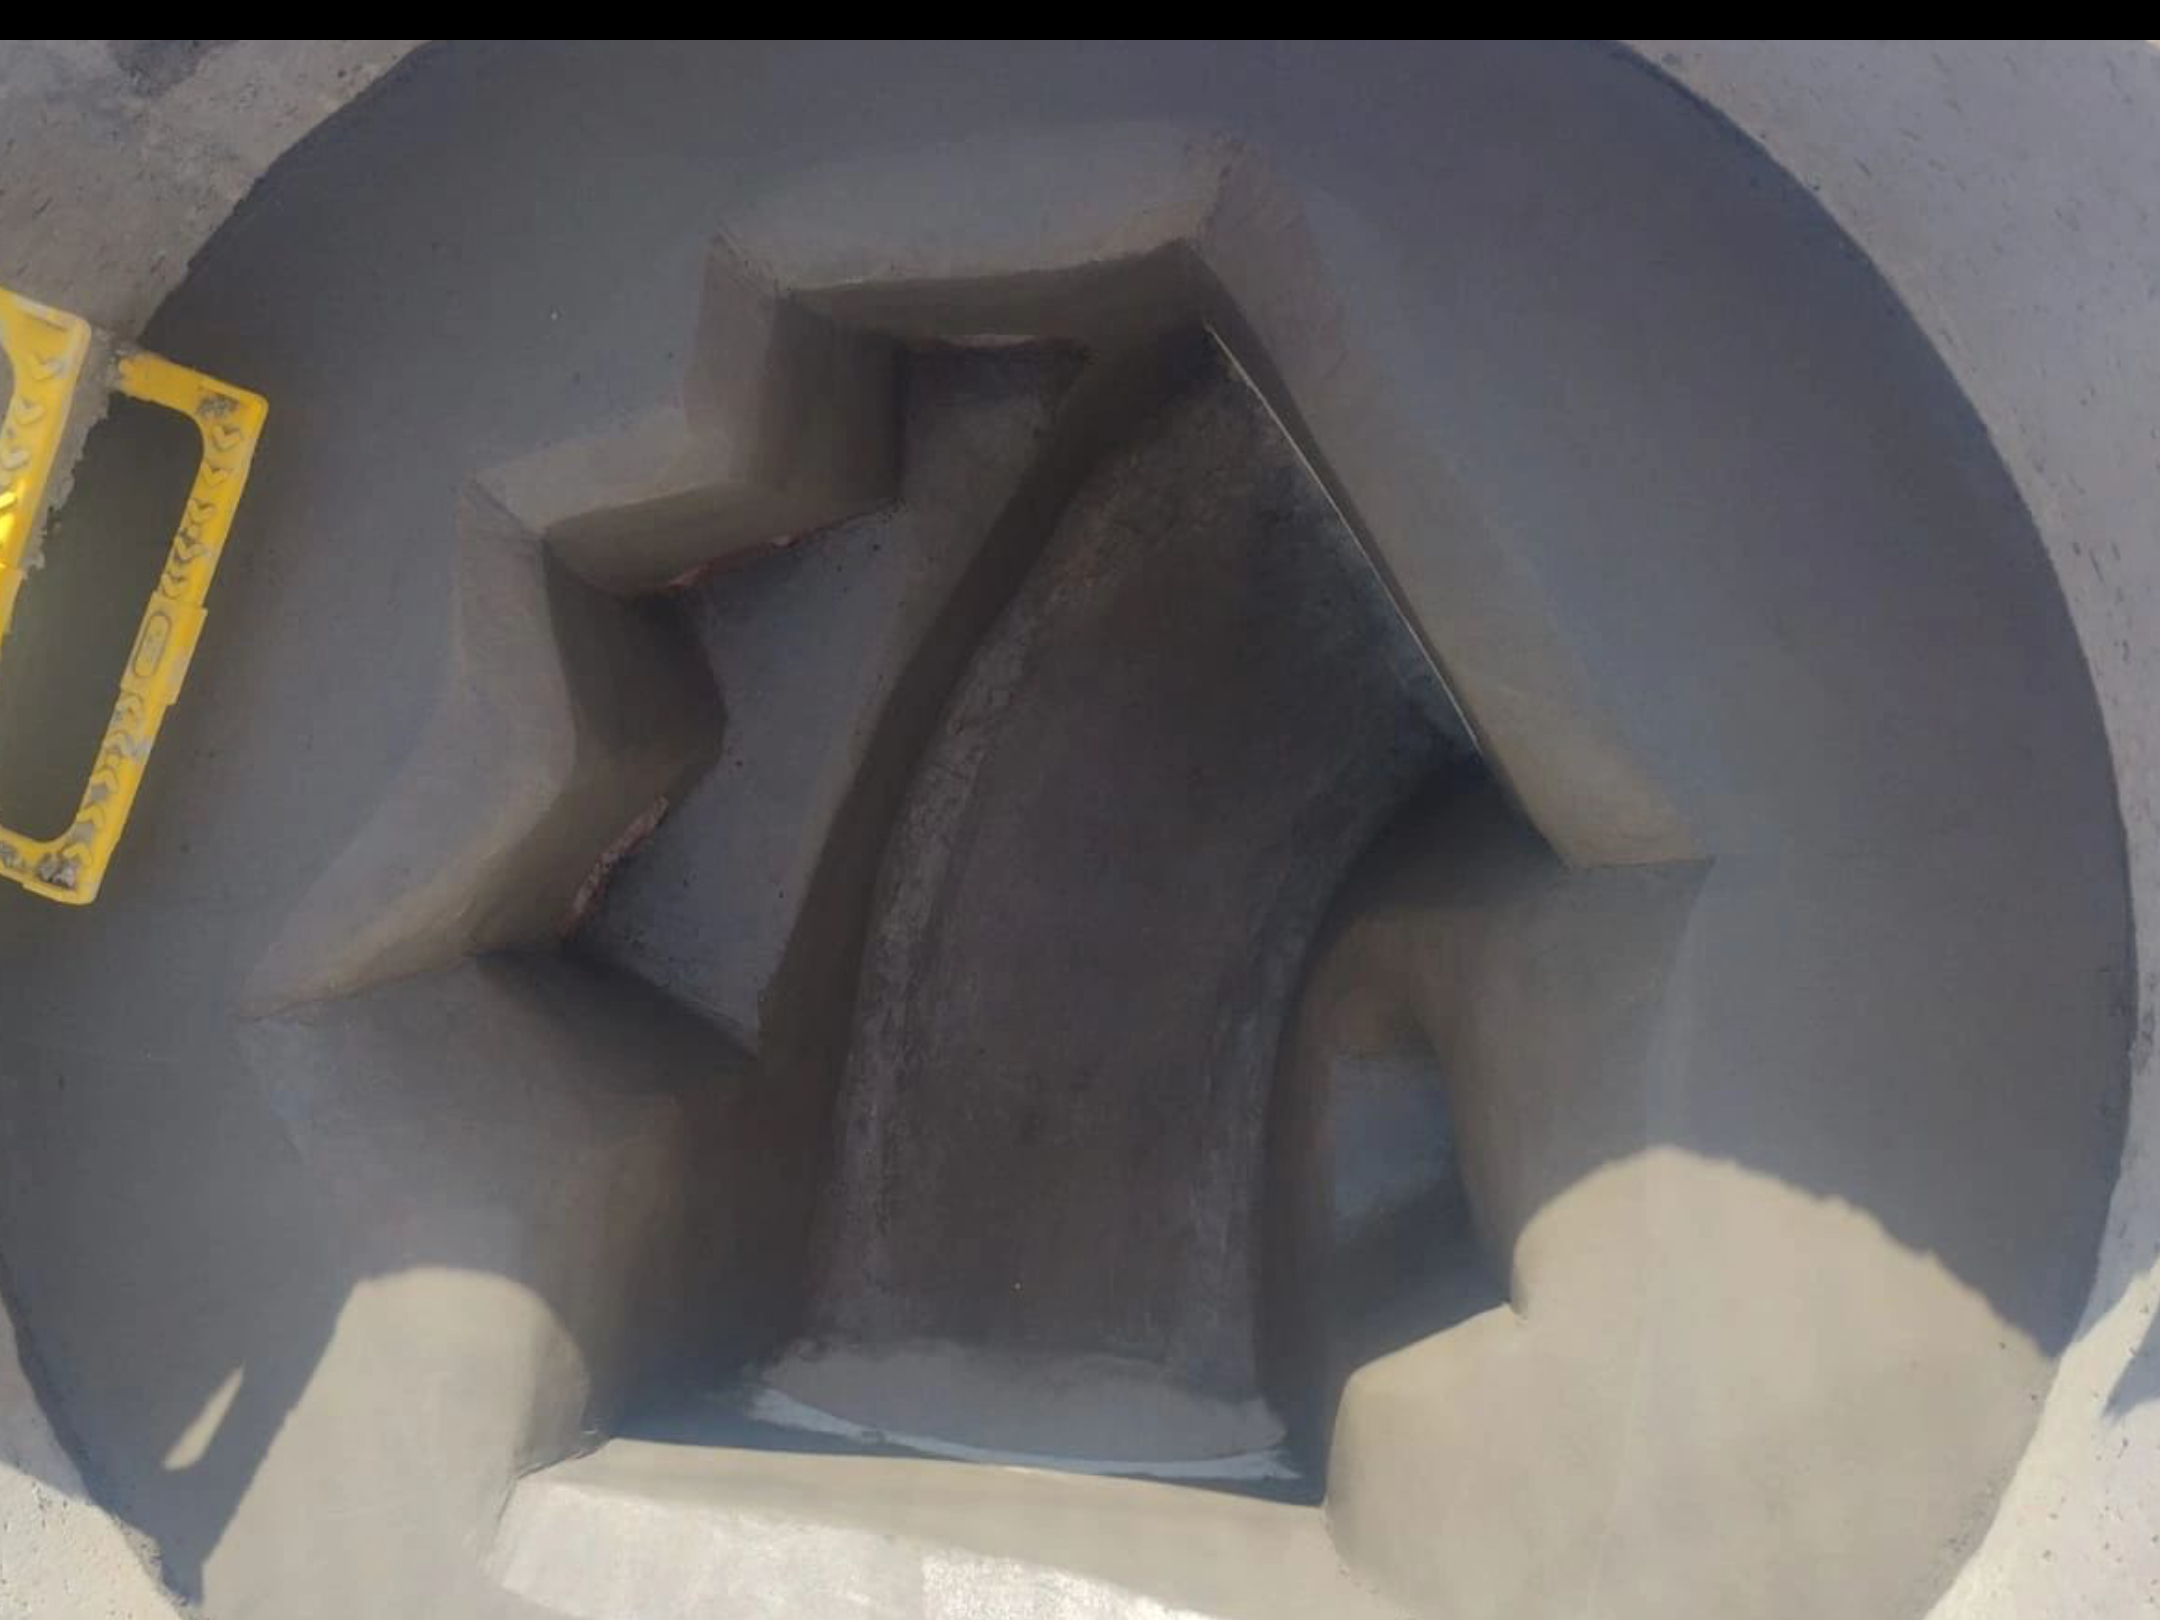
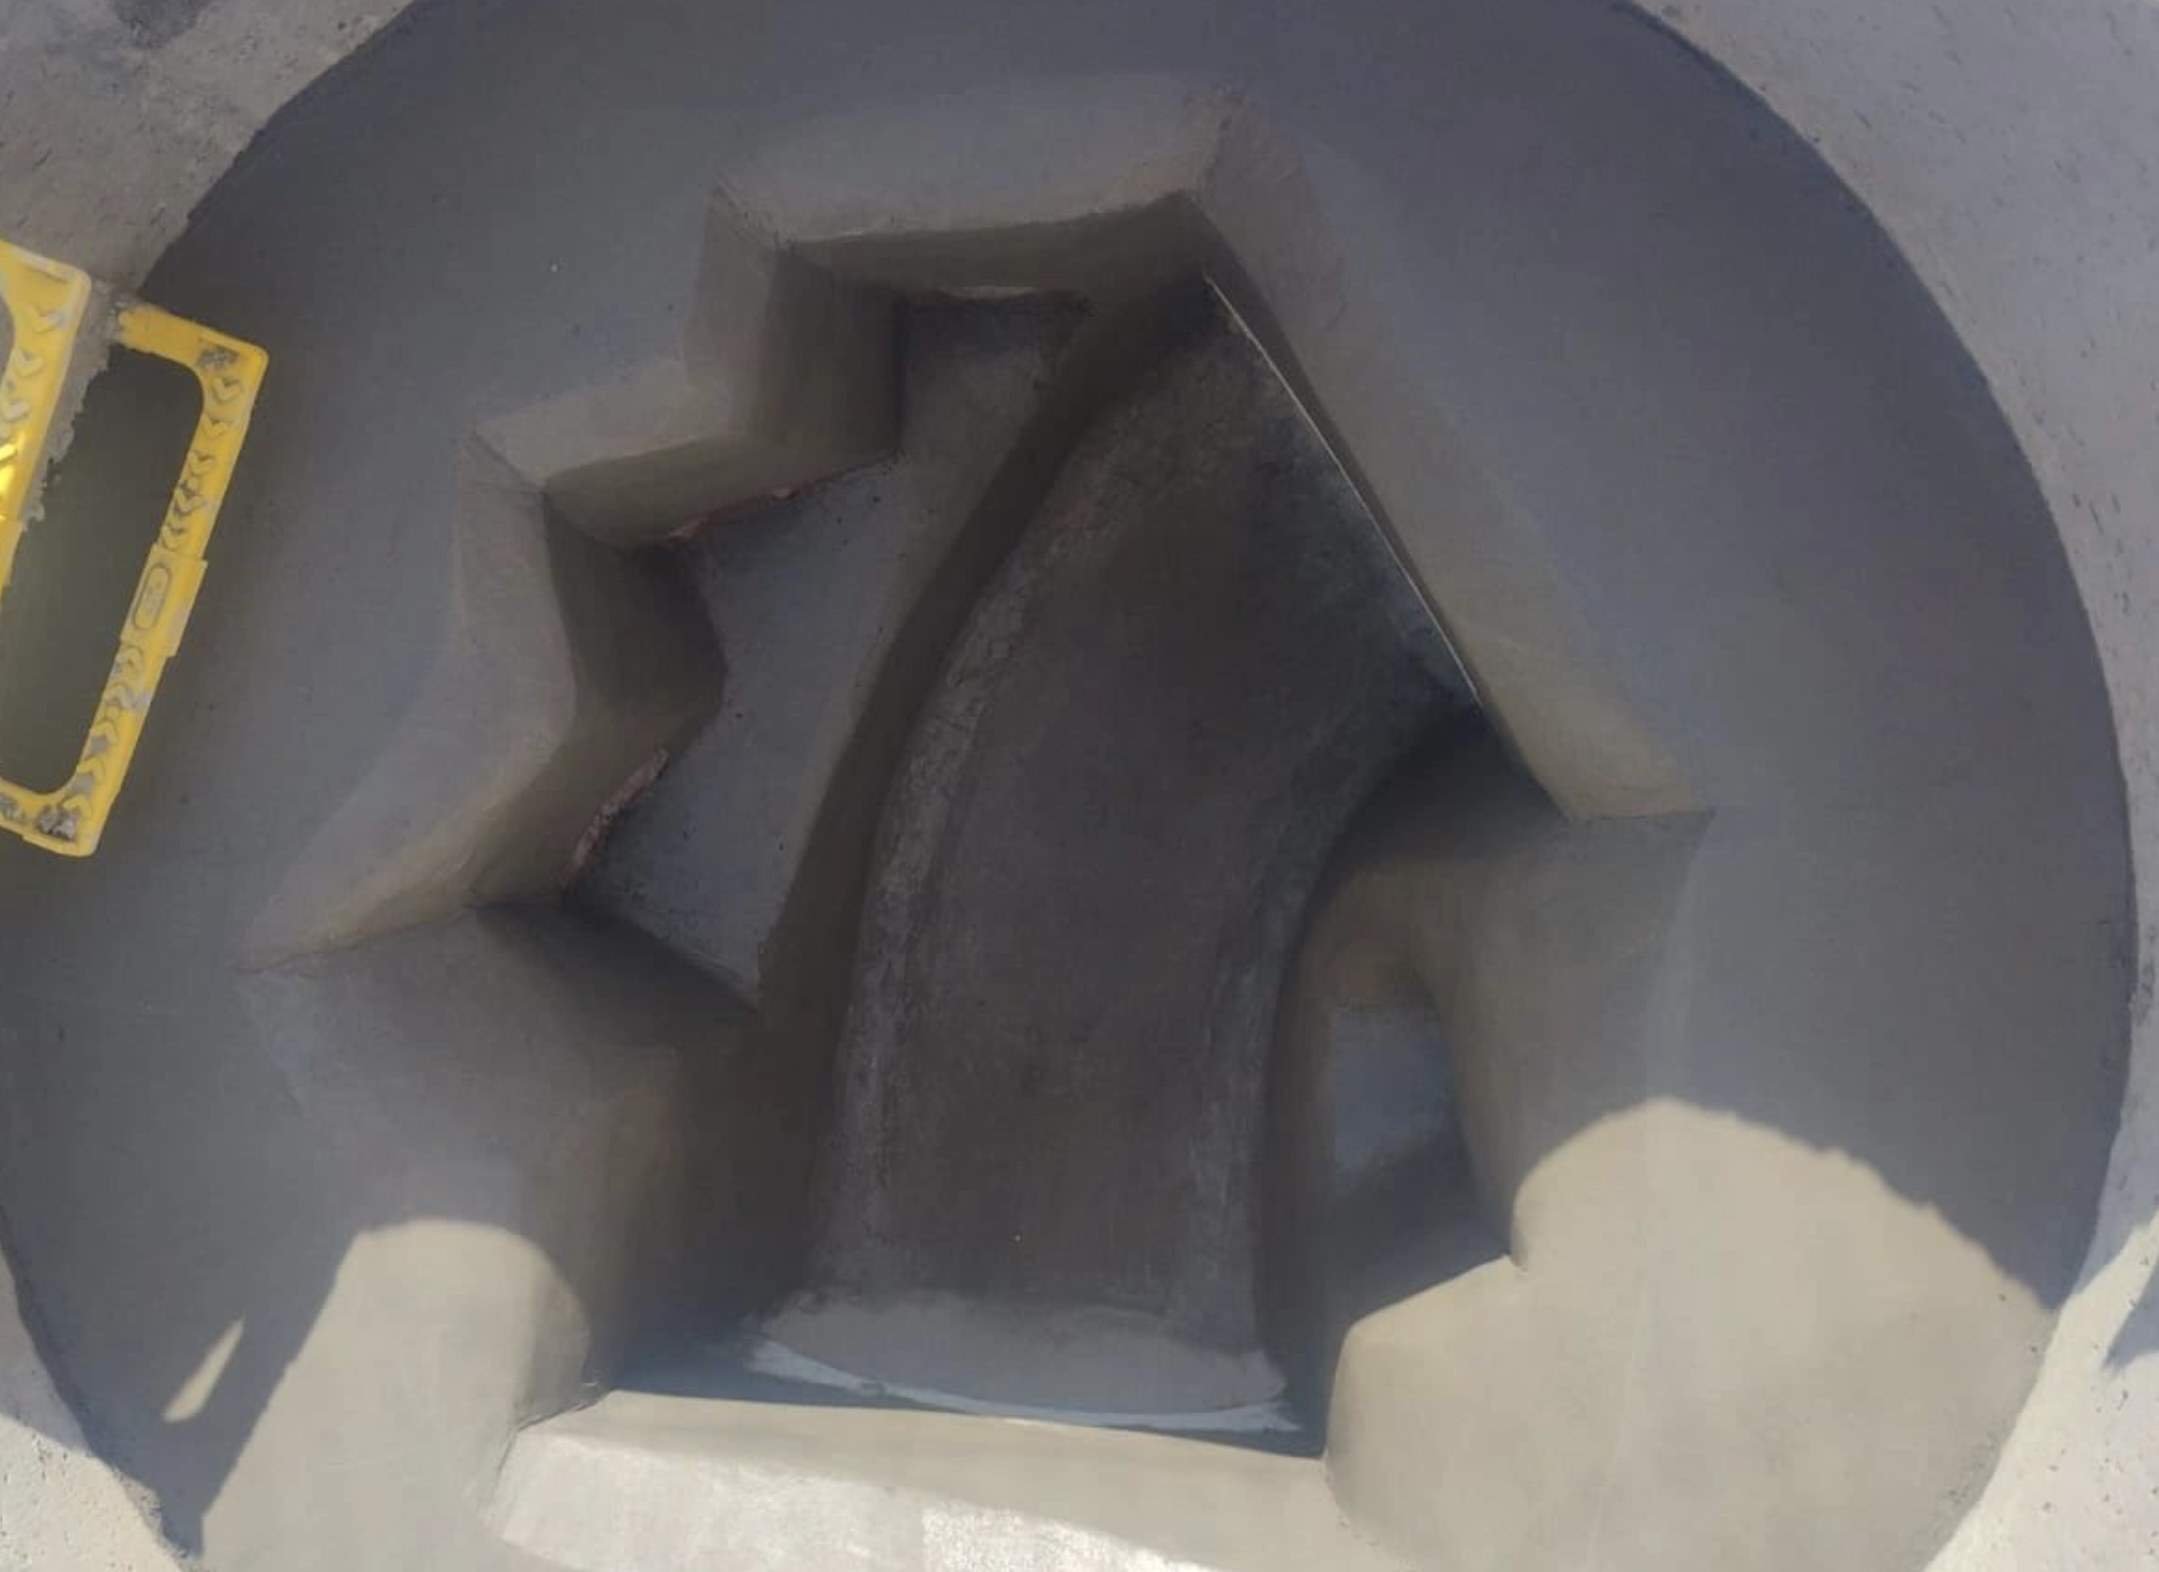
Update service page images and portfolio image sources.
Replit-Commit-Author: Agent
Replit-Commit-Session-Id: f6eff7e7-0703-471a-87fe-83ed85b35bbe
Replit-Commit-Screenshot-Url: https://storage.googleapis.com/screenshot-production-us-central1/b9f0c0c5-701f-4bfb-b468-386993177680/7fcf11b4-ac35-42b5-b2cd-290de06a1f0e.jpg

diff --git a/client/src/lib/constants.ts b/client/src/lib/constants.ts
@@ -20,7 +20,7 @@ export const SERVICES = [
       "Balancing Ponds",
       "Pumping Stations"
     ],
-    images: ["/images/IMG_0041.png", "/images/IMG_2065.jpg", "/images/403187A5-72AA-4D68-9FC2-208F416E0DFD.jpg", "/images/IMG_3893.jpg"]
+    images: ["/images/IMG_0041.png", "/images/IMG_3893.jpg"]
   },
   {
     title: "Deep Drainage",
@@ -30,7 +30,7 @@ export const SERVICES = [
       "Manhole Installation",
       "Benching"
     ],
-    images: ["/images/IMG_0127.png", "/images/IMG_1391.jpg", "/images/IMG_0041.png", "/images/46ED5F4B-1ED0-4F22-A41A-691919DD2391.jpg", "/images/IMG_6590.jpg"]
+    images: ["/images/IMG_0127.png", "/images/IMG_0041.png"]
   },
   {
     title: "Site Preparation",
@@ -69,24 +69,24 @@ export const SERVICES = [
 
 export const PORTFOLIO_IMAGES = [
   {
-    src: "https://images.unsplash.com/photo-1625722723669-389a6feb52f2",
-    alt: "Completed foundation work",
-    title: "Commercial Foundation Project"
+    src: "/images/IMG_7998.jpg",
+    alt: "Groundworks project",
+    title: "Commercial Groundworks"
   },
   {
-    src: "https://images.unsplash.com/photo-1533780898421-b118c81ac26b",
-    alt: "Road construction",
-    title: "Road Infrastructure Development"
+    src: "/images/IMG_3893.jpg",
+    alt: "Civil engineering project",
+    title: "Infrastructure Development"
   },
   {
-    src: "https://images.unsplash.com/photo-1699200746675-8e4de41b9e08",
-    alt: "Residential groundwork",
-    title: "Residential Development"
+    src: "/images/IMG_0127.png",
+    alt: "Deep drainage installation",
+    title: "Deep Drainage Systems"
   },
   {
-    src: "https://images.unsplash.com/photo-1454165804606-c3d57bc86b40",
-    alt: "Construction site",
-    title: "Industrial Site Preparation"
+    src: "/images/IMG_0041.png",
+    alt: "Civil engineering work",
+    title: "Civil Engineering Excellence"
   }
 ];
 